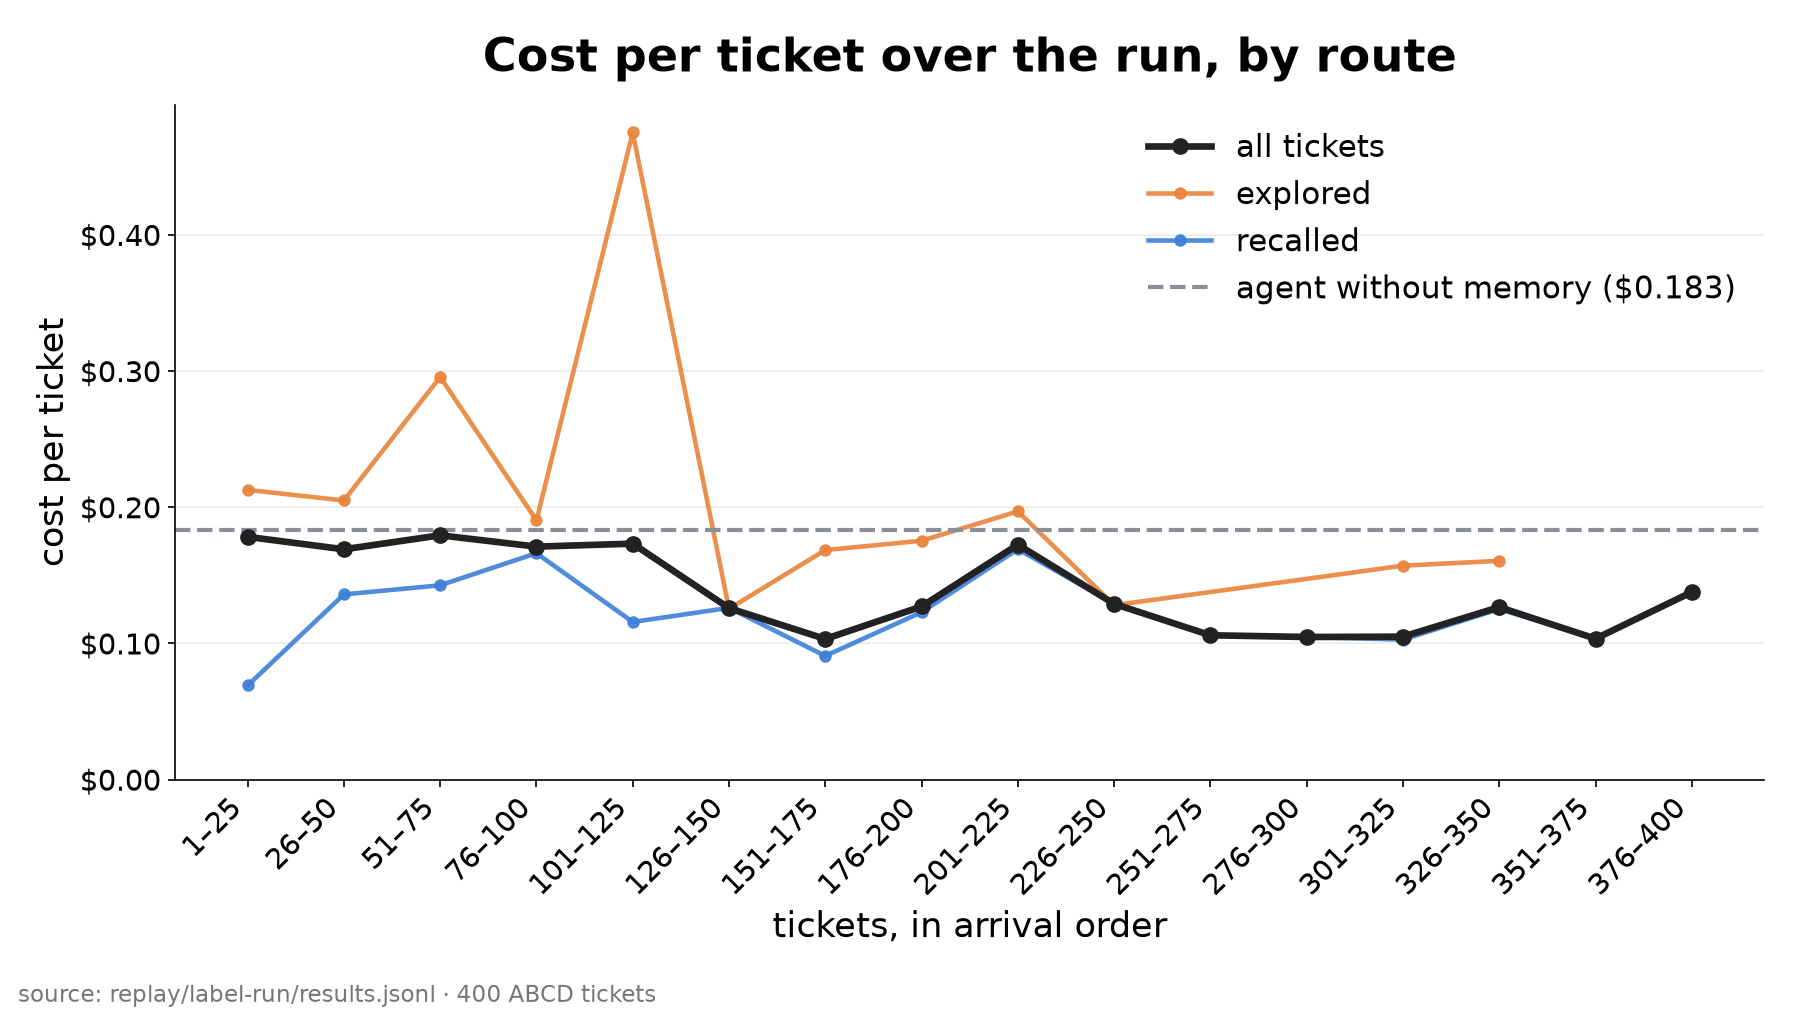
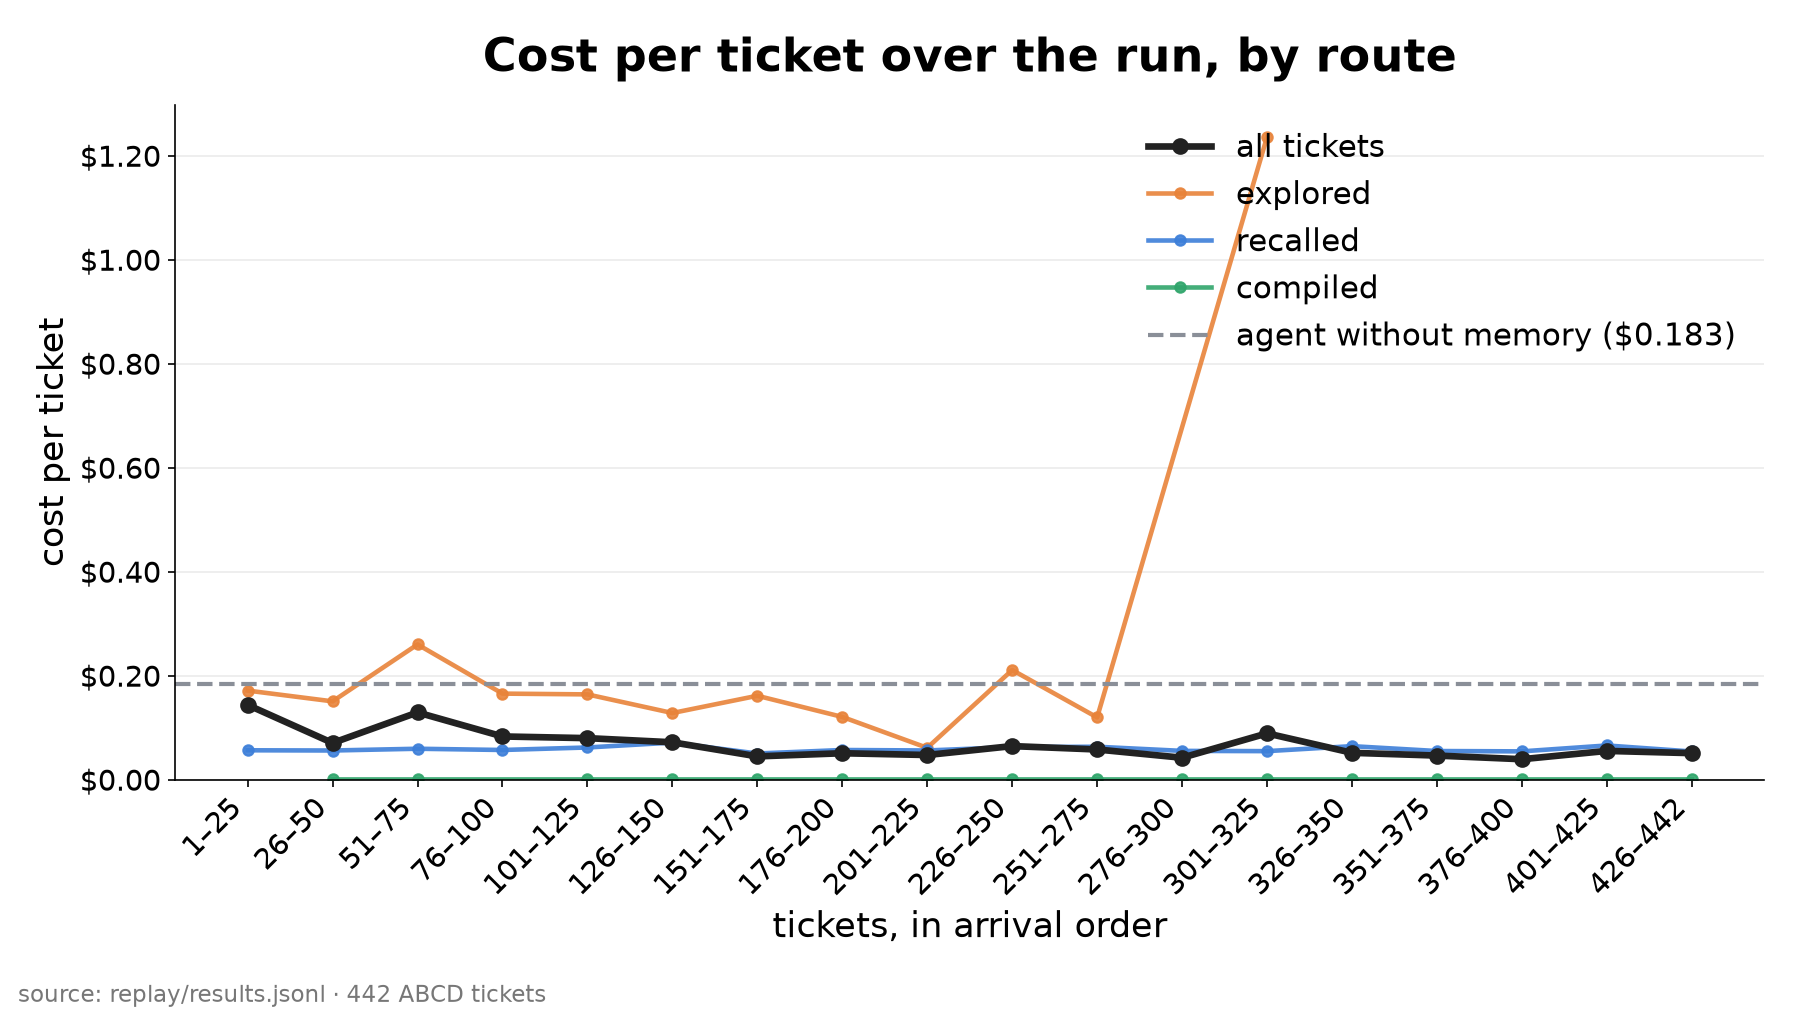
README and submission: final numbers, graphs, storefront, next steps

diff --git a/README.md b/README.md
@@ -33,10 +33,10 @@ Compiled plans are promoted in shadow first: a plan is checked against the agent
 ## How each host is used
 
 - **GBrain** — the company brain: 71 pages (55 procedures from ABCD agent guidelines, policies, catalog, FAQ). The agent searches it on every explored ticket, and compiled plans take their guards from its policies. `brain/`, `agent/src/brain.ts`.
-- **QM** — the harness customers chat in. Our fork ([ToukoUrsin/qm-support-agi](https://github.com/ToukoUrsin/qm-support-agi), to be published) runs the support bot with our tools over MCP (`mcp/`), adds a **Paths panel** (recalled vs explored per turn, steps, time, cost, learning curve) and fixes QM's Memorable provider, which was never consulted on chat turns.
+- **QM** — the harness customers chat in. Our fork ([ToukoUrsin/qm-support-agi](https://github.com/ToukoUrsin/qm-support-agi), branch `support-agi`) runs the support bot with our tools over MCP (`mcp/`), adds a **Paths panel** (recalled vs explored per turn, steps, time, cost, learning curve) and fixes QM's Memorable provider, which was never consulted on chat turns.
 - **Memorable** — procedure extraction (`/v1/extract`), storage and recall (`agent/src/memorable-store.ts`, `RECALL_BACKEND=memorable`). Successful agent traces become procedures; later tickets recall them.
-- **River AI** — the request normalizer: messy ticket in, `CANONICAL_REQUEST_V1` out (`CANONICAL_REQUEST_V1.md`), which is what recall and compiled plans match on. Marc is training this model on ABCD with the River API. **Until his endpoint lands, a Claude Haiku stand-in emits the same structure** (`agent/src/canonical.ts`); set `ROUTER_URL` to switch to River.
-  - River results: {{RIVER_RESULTS}}
+- **River AI** — the request normalizer: messy ticket in, `CANONICAL_REQUEST_V1` out (`CANONICAL_REQUEST_V1.md`), which is what recall and compiled plans match on. Marc trained a LoRA on Qwen3.6-35B-A3B with the River API on 8,316 ABCD openings (step 50, about $1.35 of training tokens, estimate). The final run routed 398 of 400 tickets through it (`ROUTER_URL`); a Claude Haiku stand-in (`agent/src/canonical.ts`) remains the fallback.
+  - River results: **65%** held-out path hit rate in our recall harness vs **56%** for Haiku and **8%** for raw ticket text; **77%** label accuracy in Marc's own eval (`router/REPORT.md`).
 
 ## Data
 
@@ -46,19 +46,39 @@ Compiled plans are promoted in shadow first: a plan is checked against the agent
 
 ## Results
 
-Replay of 400 ABCD tickets in order, mock shop, 25-ticket buckets.
+Final cold-start run: 400 ABCD tickets in order plus 42 hard tickets interleaved, River router, Memorable, mock shop, 25-ticket buckets.
+
+![Cost per ticket falls as paths are learned](video/graphs/cost-per-ticket.png)
+![Tier share per bucket](video/graphs/tier-share.png)
 
 | Metric | Value |
 |---|---|
-| Cost per ticket, first bucket → last bucket | {{COST_FIRST}} → {{COST_LAST}} |
-| Cost per ticket, no-memory baseline | {{COST_BASELINE}} |
-| Share per tier, last bucket (explored / recalled / compiled) | {{TIER_SHARE}} |
-| Compiled-plan accuracy (reply agreement with the agent) | {{COMPILED_ACCURACY}} |
-| Router hit rate on 100 held-out tickets (raw text vs normalizer) | {{ROUTER_HIT_RATE}} |
-| Agreement with the human agent's action sequence | {{HUMAN_AGREEMENT}} |
-| Hard tickets: tier they ended in | {{HARD_TICKET_TIERS}} |
+| Cost per ticket, first 25 → last 25 | **$0.139 → $0.047 (−66%)** |
+| Cost per ticket, no-memory baseline | $0.183 |
+| Tier share, last 25 (explored / recalled / compiled) | 0% / 88% / 12% |
+| Cost per ticket by tier | explored $0.191 · recalled $0.059 · compiled ~$0.0003 (router only, 0 model calls) |
+| Compiled-plan accuracy | 94% (33 of 35) reply agreement with the agent in the offline Haiku-judged eval (`compiled-eval.json`); in the final run plans answer only after 2 of 3 shadow agreements |
+| Router path hit rate, 100 held-out tickets | River 65% · Haiku 56% · raw text 8% |
+| Hard tickets (42), tier they ended in | 8 explored · 33 recalled · 1 compiled; 20 recalls used the wrong subflow |
+| Confidence gate (≥0.7, single request) on hard tickets | wrong-procedure reuse 48% → **24%**, cost still below baseline ($0.104 vs $0.223) |
+| Answer quality (Haiku judge, "resolved per policy") | on par with the no-memory agent: hard 40% gated vs 38% baseline, normal 29% vs 26% |
 
-Raw outputs: `replay/summary.json`, `replay/summary-baseline.json`, `replay/compiled-eval.json`, `replay/router-eval.json`.
+![Hard vs normal tickets](video/graphs/hard-vs-normal.png)
+
+**Where quality is not proven.** Exact match with the human agent's action set is low for every setup: 13% for recalled paths, 23% for explored, 27% for the no-memory baseline (52% for compiled plans on their narrow intents). The judge sees the ticket, reply, policy and human actions but not the shop database, so its absolute rates are only comparable within the table. Even gated, 24% of hard tickets reuse the wrong procedure. Details: `replay/SUMMARY.md`.
+
+Raw outputs: `replay/summary.json`, `replay/summary-baseline.json`, `replay/gate-check.json`, `replay/compiled-eval.json`, `replay/router-eval.json`, `router/REPORT.md`.
+
+## Try it
+
+- **QM fork** with the Paths panel: [ToukoUrsin/qm-support-agi](https://github.com/ToukoUrsin/qm-support-agi) (branch `support-agi`).
+- **Storefront chat** (`storefront/`): a chat bubble on the Shopify dev store [kettle-and-co-support-hack.myshopify.com](https://kettle-and-co-support-hack.myshopify.com), same pipeline. The store is password-protected; the password is given on request.
+
+## Next steps
+
+- Marc's gate suggestion: create paths only at ≥0.8 router confidence and reuse at ≥0.5 (simulated only so far).
+- The canonical-v1 normalizer on River (operation, subject, topic, not just the subflow label), so plans match on structure.
+- Opus 5.5 for the explored tier, and a per-procedure check that a recalled path's first lookups fit the ticket before replay.
 
 ## What's real vs simulated
 
@@ -66,7 +86,7 @@ Raw outputs: `replay/summary.json`, `replay/summary-baseline.json`, `replay/comp
 - **Test data:** the Shopify store is a development store with test orders; no real customers or payments.
 - **Mock shop for replay:** the 400-ticket replay uses a local mock of the same shop data (`agent/src/shop.ts`) so it can run fast and repeatably; the live demo uses Shopify.
 - **Constructed:** 27 of the 42 hard tickets were written by us and are labeled `source: "constructed"`.
-- **Stand-in normalizer:** until River's endpoint is live, the canonical request comes from Claude Haiku, labeled as a stand-in everywhere it appears.
+- **Router:** the final run used Marc's River-trained router (served from his Mac); the Haiku stand-in is used only as a fallback and in the earlier compiled-plan eval.
 - **Offline validation:** compiled-plan accuracy is judged by Claude Haiku comparing the compiled reply with the agent's reply on the same ticket.
 
 ## Built today

diff --git a/event/SUBMISSION.md b/event/SUBMISSION.md
@@ -1,7 +1,7 @@
 # Submission form (Google Form, due 17:00)
 
 Fields: Email (touko.ursin@gmail.com, recorded) · Team Name* · Member Names + Emails* · Project Description* · Github URL* · Demo Video URL* · Side Quests · Anything else.
-All links must be public before submitting. Fill `{{...}}` after final numbers (15:50).
+All links must be public before submitting.
 
 ## Team Name
 Support AGI
@@ -10,19 +10,19 @@ Support AGI
 Touko Ursin (touko.ursin@gmail.com), Marc Smeds (alexsmeds123@gmail.com)
 
 ## Project Description
-Support that compiles itself. Our support agent handles each ticket on the cheapest route that works. A new kind of request is explored: Claude solves it with company knowledge in GBrain and the shop's tools, and Memorable extracts the path. Similar requests, standardized into a fixed request structure (River normalizer), recall that path and replay it in fewer steps. A path reused successfully three times compiles into a deterministic plan with guards from GBrain policy that answers with zero model calls; anything it cannot handle falls back to the agent. Customers chat in our QM fork, whose Paths panel shows the tier, steps, time and cost of every turn. On 400 real ABCD support tickets, cost per ticket fell from {{COST_FIRST}} to {{COST_LAST}} ({{COST_BASELINE}} without memory), and {{COMPILED_SHARE}} of late tickets ran compiled at {{COMPILED_ACCURACY}} accuracy.
+Support that compiles itself. Our support agent handles each ticket on the cheapest route that works. A new kind of request is explored: Claude solves it with company knowledge in GBrain and the shop's tools, and Memorable extracts the path. Similar requests, standardized into a fixed request structure (River-trained router), recall that path and replay it in fewer steps. A path reused successfully three times compiles into a deterministic plan with guards from GBrain policy that answers with zero model calls; anything it cannot handle falls back to the agent. Customers chat in our QM fork, whose Paths panel shows the tier, steps, time and cost of every turn. On 400 ABCD support tickets, cost per ticket fell from $0.139 to $0.047 (−66%; $0.183 without memory), with 88% of late tickets recalled and 12% compiled. Judged answer quality matches the no-memory agent; exact human-workflow match stays low for every setup.
 
 ## Github URL
 https://github.com/ToukoUrsin/own-your-intelligence-hack
 
 ## Demo Video URL
-{{VIDEO_URL}}
+TBD (add before submitting)
 
 ## Side Quests
 River AI, GBrain, Memorable, QM
 
 ## Anything else
-- Real vs simulated: Claude agent, GBrain, Memorable, QM fork and a Shopify dev store (test orders, no real customers) are real. The 400-ticket replay uses a local mock of the same shop data for speed. Tickets and human-agent action sequences come from ABCD (ASAPP Research, MIT); 27 of our 42 hard tickets are constructed by us and labeled. Until Marc's River-trained normalizer endpoint is live, a Claude Haiku stand-in emits the same canonical request structure; River results: {{RIVER_RESULTS}}.
+- Real vs simulated: Claude agent, GBrain, Memorable, QM fork and a Shopify dev store (test orders, no real customers) are real. The 400-ticket replay uses a local mock of the same shop data for speed. Tickets and human-agent action sequences come from ABCD (ASAPP Research, MIT); 27 of our 42 hard tickets are constructed by us and labeled. Marc's River-trained router (Qwen3.6-35B-A3B LoRA, step 50, ~$1.35 training) routed the final run: 65% held-out path hit vs 56% Haiku and 8% raw text in our harness, 77% label accuracy in his eval. A confidence gate (≥0.7, single request) halves wrong reuse on hard tickets (48% → 24%). Storefront chat on the Shopify dev store; password on request.
 - Built during hacking hours: first code commit 13:56, setup and docs from 13:00. No prior code reused. Timeline in the README.
 - QM fork (per QM's side quest): https://github.com/ToukoUrsin/qm-support-agi (Paths panel, Memorable provider fix, support bot setup).
 - An earlier design-system commit (14:45) was reverted at 14:49.
